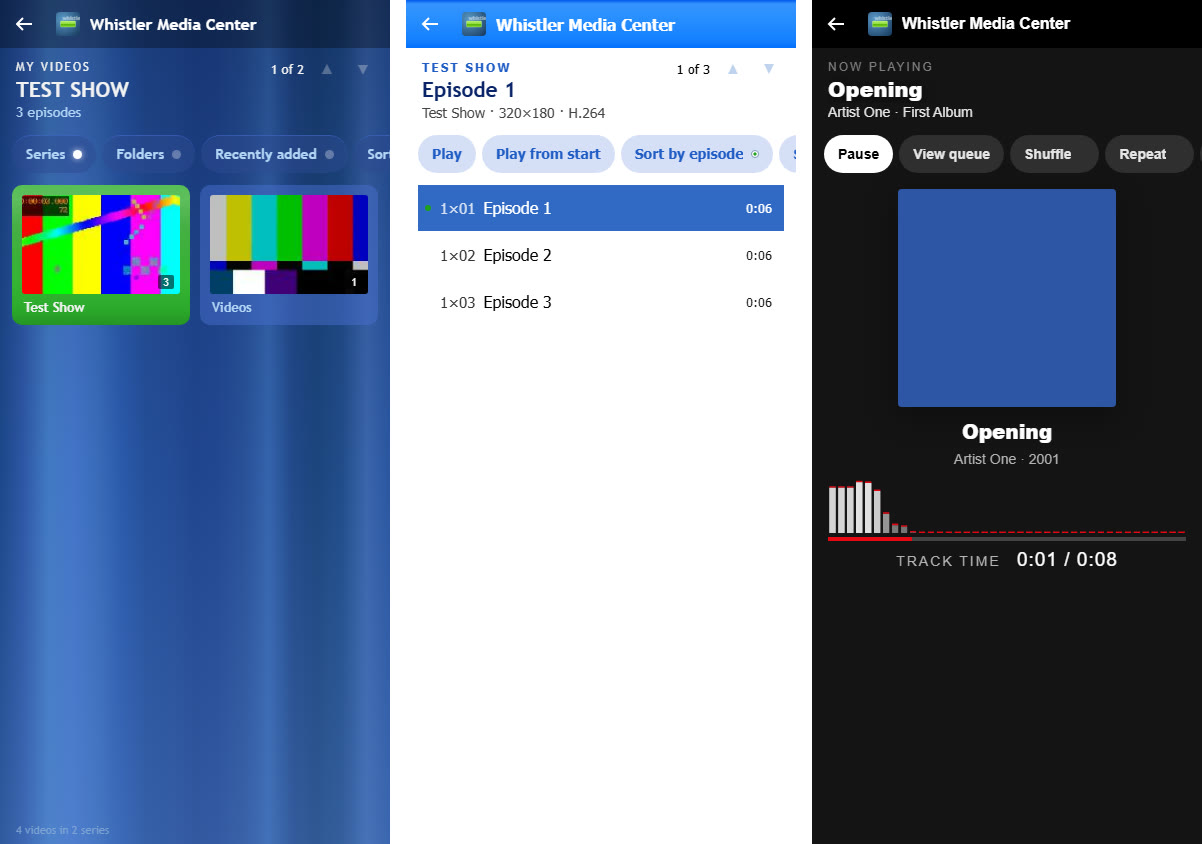
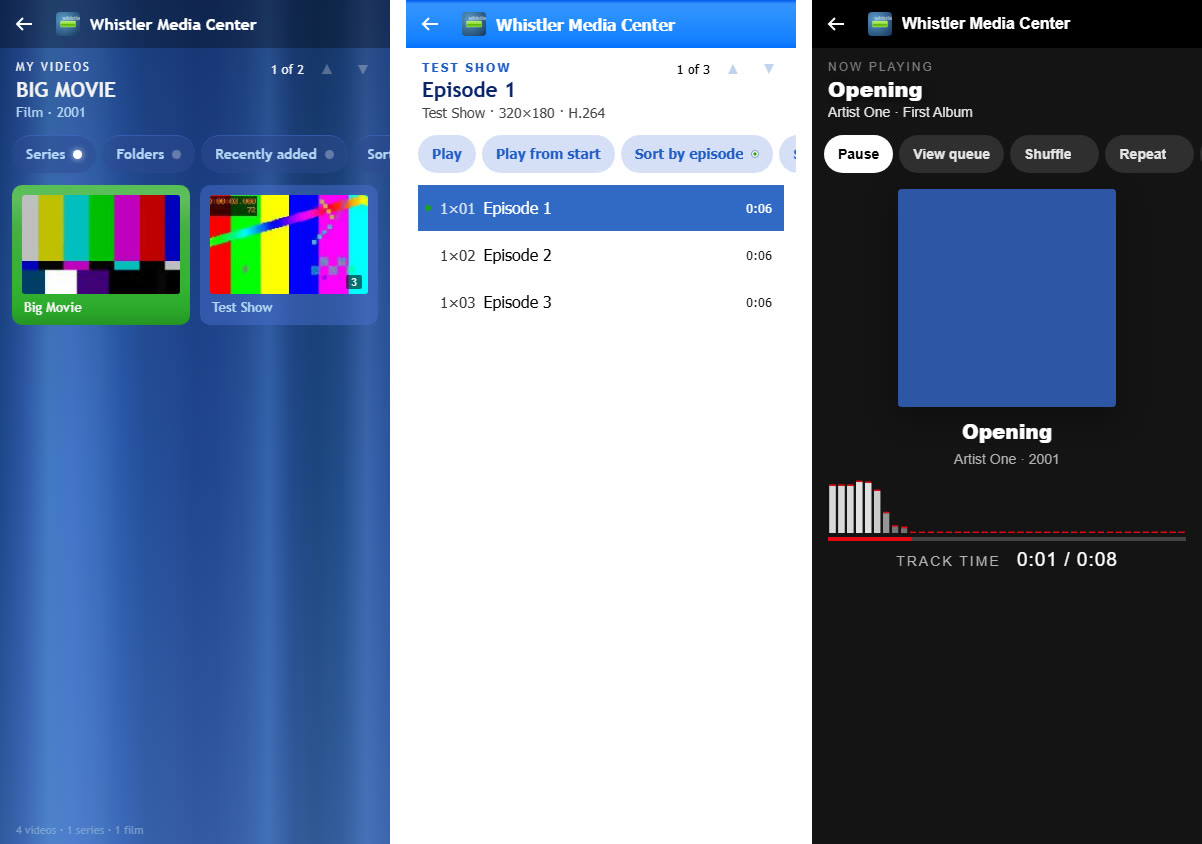
A film on its own gets a tile under its own name
A film lying directly in a library folder used to be tucked into one tile
named after the folder, so "Shrek" in a folder called "Test Files" could not
be found in My Videos.

- every such film now has its own tile, named after the film; choosing it
  plays the film straight away
- the line under the title says "Film" and the year
- a year in brackets is read ("Big Movie (2001)"), and a number that belongs
  to the title is kept ("Blade Runner 2049 (2017)")
- Turkish release words (TR, Dublaj, Altyazılı) are left out of the title
- the status line counts series and films separately

Checked in Edge and Firefox 160.

Changed region(s): [[0.0, 0.2156, 0.3078, 0.3697], [0.0, 0.0924, 0.1231, 0.154]]

diff --git a/js/screens/videos-screen.js b/js/screens/videos-screen.js
@@ -13,7 +13,8 @@ const SEASON_FOLDER = /^(?:season|s)\s*(\d{1,2})$/i;
  * @param {object} file a video file record
  * @param {(folder: string) => boolean} isLibraryRoot tells whether a folder is a library folder itself
  * @returns {{ seriesKey: string, seriesTitle: string, year: number|null, folder: string,
- *             season: number|null, episode: number|null, isExtra: boolean, episodeTitle: string|null }}
+ *             season: number|null, episode: number|null, isExtra: boolean, isFilm: boolean,
+ *             episodeTitle: string|null }}
  */
 function classifyVideo(file, isLibraryRoot) {
   const parsed = parseEpisode(file.name);
@@ -30,9 +31,10 @@ function classifyVideo(file, isLibraryRoot) {
       release = parseReleaseTitle(parsed.before || file.name);
       seriesKey = `title|${release.title.toLowerCase()}`;
     } else {
+      // a film on its own: it gets a tile of its own, named after the file
       isLoose = true;
-      release = { title: folderDisplayName(folder), year: null, season: null };
-      seriesKey = `root|${folder.toLowerCase()}`;
+      release = parseReleaseTitle(file.name);
+      seriesKey = `file|${file.path.toLowerCase()}`;
     }
   } else {
     // climb out of "Extras" and "Season 2" folders to reach the series folder
@@ -53,7 +55,7 @@ function classifyVideo(file, isLibraryRoot) {
   }
 
   let episodeTitle = '';
-  if (isLoose) episodeTitle = parseReleaseTitle(file.name).title;
+  if (isLoose) episodeTitle = release.title;
   else if (parsed.after) episodeTitle = parseReleaseTitle(parsed.after).title;
   if (!episodeTitle || /^v\d$/i.test(episodeTitle)) episodeTitle = null; // "v2" is a version, not a title
 
@@ -72,6 +74,7 @@ function classifyVideo(file, isLibraryRoot) {
     season,
     episode: isExtra || isLoose ? null : parsed.episode,
     isExtra,
+    isFilm: isLoose,
     episodeTitle,
   };
 }
@@ -89,7 +92,8 @@ function compareEpisodes(first, second) {
  * Groups video files into series.
  * @param {object[]} files video file records; each gets season, episode, isExtra and episodeTitle added
  * @param {string[]} roots the video library folders
- * @returns {Array<{ title: string, year: number|null, dir: string, episodes: object[], mtime: number }>}
+ * @returns {Array<{ title: string, year: number|null, dir: string, isFilm: boolean,
+ *                   episodes: object[], mtime: number }>}
  */
 function groupIntoSeries(files, roots) {
   const normalize = (folder) => folder.replace(/[\\/]+$/, '').toLowerCase();
@@ -104,6 +108,7 @@ function groupIntoSeries(files, roots) {
         title: details.seriesTitle,
         year: details.year,
         dir: details.folder,
+        isFilm: details.isFilm, // a single film rather than a series
         episodes: [],
         mtime: 0,
       });
@@ -213,8 +218,19 @@ function createVideosScreen() {
   const compareGroups = (first, second) =>
     sortBy === 'date' ? second.mtime - first.mtime : naturalCompare(first.title, second.title);
 
-  /** A tile for a series or a folder; its picture is a frame of the first episode. */
+  /** A tile for a film, a series or a folder; its picture is a frame of the first video. */
   const createGroupTile = (group) => {
+    if (group.isFilm) {
+      // a film has nothing to list: its tile plays it
+      const film = group.episodes[0];
+      return {
+        label: group.title,
+        kind: 'video',
+        title: [group.title, group.year ? `Film · ${group.year}` : 'Film'],
+        thumb: () => videoThumbnails.forVideo(film),
+        run: () => videoPlayer.open([toPlayerItem(film)], 0),
+      };
+    }
     const episodeCount = group.episodes.length;
     const yearNote = group.year ? ` · ${group.year}` : '';
     return {
@@ -226,6 +242,16 @@ function createVideosScreen() {
       run: () => openScreen(createEpisodesScreen(group)),
     };
   };
+
+  /** The line at the bottom: how many videos, and how many series and films they make. */
+  function describeLibrary() {
+    const filmCount = allSeries.filter((group) => group.isFilm).length;
+    const seriesCount = allSeries.length - filmCount;
+    const parts = [pluralize(files.length, 'video')];
+    if (seriesCount > 0) parts.push(`${seriesCount} series`);
+    if (filmCount > 0) parts.push(pluralize(filmCount, 'film'));
+    return parts.join(' · ');
+  }
 
   /** The videos grouped by the folder they are in, ignoring the series detection. */
   function groupByFolder() {
@@ -285,7 +311,7 @@ function createVideosScreen() {
     allSeries = groupIntoSeries(files, roots);
     screen.updateSpec({
       loading: null,
-      status: `${files.length} videos in ${allSeries.length} series`,
+      status: describeLibrary(),
     });
     showItems();
   }

diff --git a/js/library.js b/js/library.js
@@ -186,7 +186,7 @@ const RELEASE_NOISE_WORDS = new Set(
   (
     '2160p 1440p 1080p 1080o 720p 480p 360p 4k uhd bluray blu-ray bdrip bdmv brrip bd webrip web-dl webdl web hdtv dvdrip dvd remux cr adn funi amzn nf ' +
     'x264 x265 h264 h265 hevc avc av1 xvid divx hi10p hi10 8bit 10bit 10bits aac ac3 eac3 dd+ ddp dts flac opus mp3 dual audio dualaudio multi multisub multisubs subs sub subbed dubbed ' +
-    'eng engsub english vostfr jpn jap msubs softsubs subtitle subtitles multiple repack proper uncensored uncut complete batch nced ncop v0 v1 v2 v3'
+    'eng engsub english tr turkce türkçe dublaj altyazili altyazılı vostfr jpn jap msubs softsubs subtitle subtitles multiple repack proper uncensored uncut complete batch nced ncop v0 v1 v2 v3'
   ).split(' '),
 );
 
@@ -206,7 +206,9 @@ function parseReleaseTitle(rawName) {
   );
   text = text.replace(/\s[-–]\s*\d{1,3}\s*[~\-–]\s*\d{1,3}\s*$/, ''); // trailing "- 01 ~ 12"
 
-  let year = null;
+  // "Film (2001)": the year is often in brackets, which were dropped with the other tags above
+  const bracketYear = /[([]((?:19|20)\d{2})[)\]]/.exec(rawName);
+  let year = bracketYear ? Number(bracketYear[1]) : null;
   const words = text
     .split(/\s+/)
     .filter(Boolean)
@@ -218,6 +220,8 @@ function parseReleaseTitle(rawName) {
       if (/^[a-z]*\d{3,4}[pi]$/i.test(word)) return false; // a resolution such as 1080p
       if (/^[0-9A-F]{8}$/i.test(word)) return false; // a CRC checksum
       if (/^(19|20)\d{2}$/.test(word)) {
+        // with the year given in brackets, a number like this belongs to the title ("2001 A Space Odyssey (1968)")
+        if (bracketYear) return true;
         year = year || Number(word);
         return false;
       }

diff --git a/README.md b/README.md
@@ -25,7 +25,7 @@ ve onu içindeki dosya türüne göre kendiliğinden doğru kütüphaneye ekler;
 
 - Kurulumsuz: klasör bir kez seçilir, tarayıcı hatırlar.
 - Üç tema: Media Center 2002 (gerçek kabuğun ölçülerinden), Whistler Beta 2 (Luna 2462) ve Netflix; **T** tuşuyla geçiş.
-- Videolarım: dosya adlarından dizi ve bölüm gruplama, kaldığı yerden devam, kare küçük resimleri, gömülü (MKV, SRT/ASS) ve yan altyazılar, bölüm listesi, otomatik sonraki bölüm.
+- Videolarım: dosya adlarından dizi ve bölüm gruplama, tek başına duran filmler için kendi adıyla ayrı karo, kaldığı yerden devam, kare küçük resimleri, gömülü (MKV, SRT/ASS) ve yan altyazılar, bölüm listesi, otomatik sonraki bölüm.
 - Müziğim: etiketlerden albüm / sanatçı / şarkı / tür, kapak resmi, çalma kuyruğu, karıştır, tekrar, Web Audio görselleştirici.
 - Resimlerim: klasör karoları, Ken Burns efektli slayt gösterisi.
 - Bilgisayarım ve Ayarlar: klasör bağlama, saat, altyazı dili, tema, ses efektleri, kaynak seçimi.
@@ -154,13 +154,13 @@ button; the colours stay with the theme.
 
 ## What's in it
 
-| Start menu  | What it does                                                                                                                                                                  |
-| ----------- | ----------------------------------------------------------------------------------------------------------------------------------------------------------------------------- |
-| My Videos   | Groups scene-release names into series, episode lists with resume marks, frame thumbnails, embedded and sidecar subtitles, chapters, hold-to-scan, autoplay next              |
-| My Music    | Albums / Artists / Songs / Genres from real tags, embedded or folder cover art, now-playing with a Web Audio spectrum, queue, shuffle, repeat, keeps playing while you browse |
-| My Pictures | Folder tiles as 2x2 contact sheets, slide show with Ken Burns drift                                                                                                           |
-| My Computer | The folders you opened (or, in server mode, every drive). Any media file plays from here; any folder can be made a library folder from its left column                        |
-| Settings    | Clock, slide show, subtitles, theme, library folders, source, and the profile form                                                                                            |
+| Start menu  | What it does                                                                                                                                                                                                        |
+| ----------- | ------------------------------------------------------------------------------------------------------------------------------------------------------------------------------------------------------------------- |
+| My Videos   | Groups scene-release names into series, gives a film on its own a tile under its own name, episode lists with resume marks, frame thumbnails, embedded and sidecar subtitles, chapters, hold-to-scan, autoplay next |
+| My Music    | Albums / Artists / Songs / Genres from real tags, embedded or folder cover art, now-playing with a Web Audio spectrum, queue, shuffle, repeat, keeps playing while you browse                                       |
+| My Pictures | Folder tiles as 2x2 contact sheets, slide show with Ken Burns drift                                                                                                                                                 |
+| My Computer | The folders you opened (or, in server mode, every drive). Any media file plays from here; any folder can be made a library folder from its left column                                                              |
+| Settings    | Clock, slide show, subtitles, theme, library folders, source, and the profile form                                                                                                                                  |
 
 My TV and Play DVD are omitted rather than faked, same reasoning as Kiyora.
 
